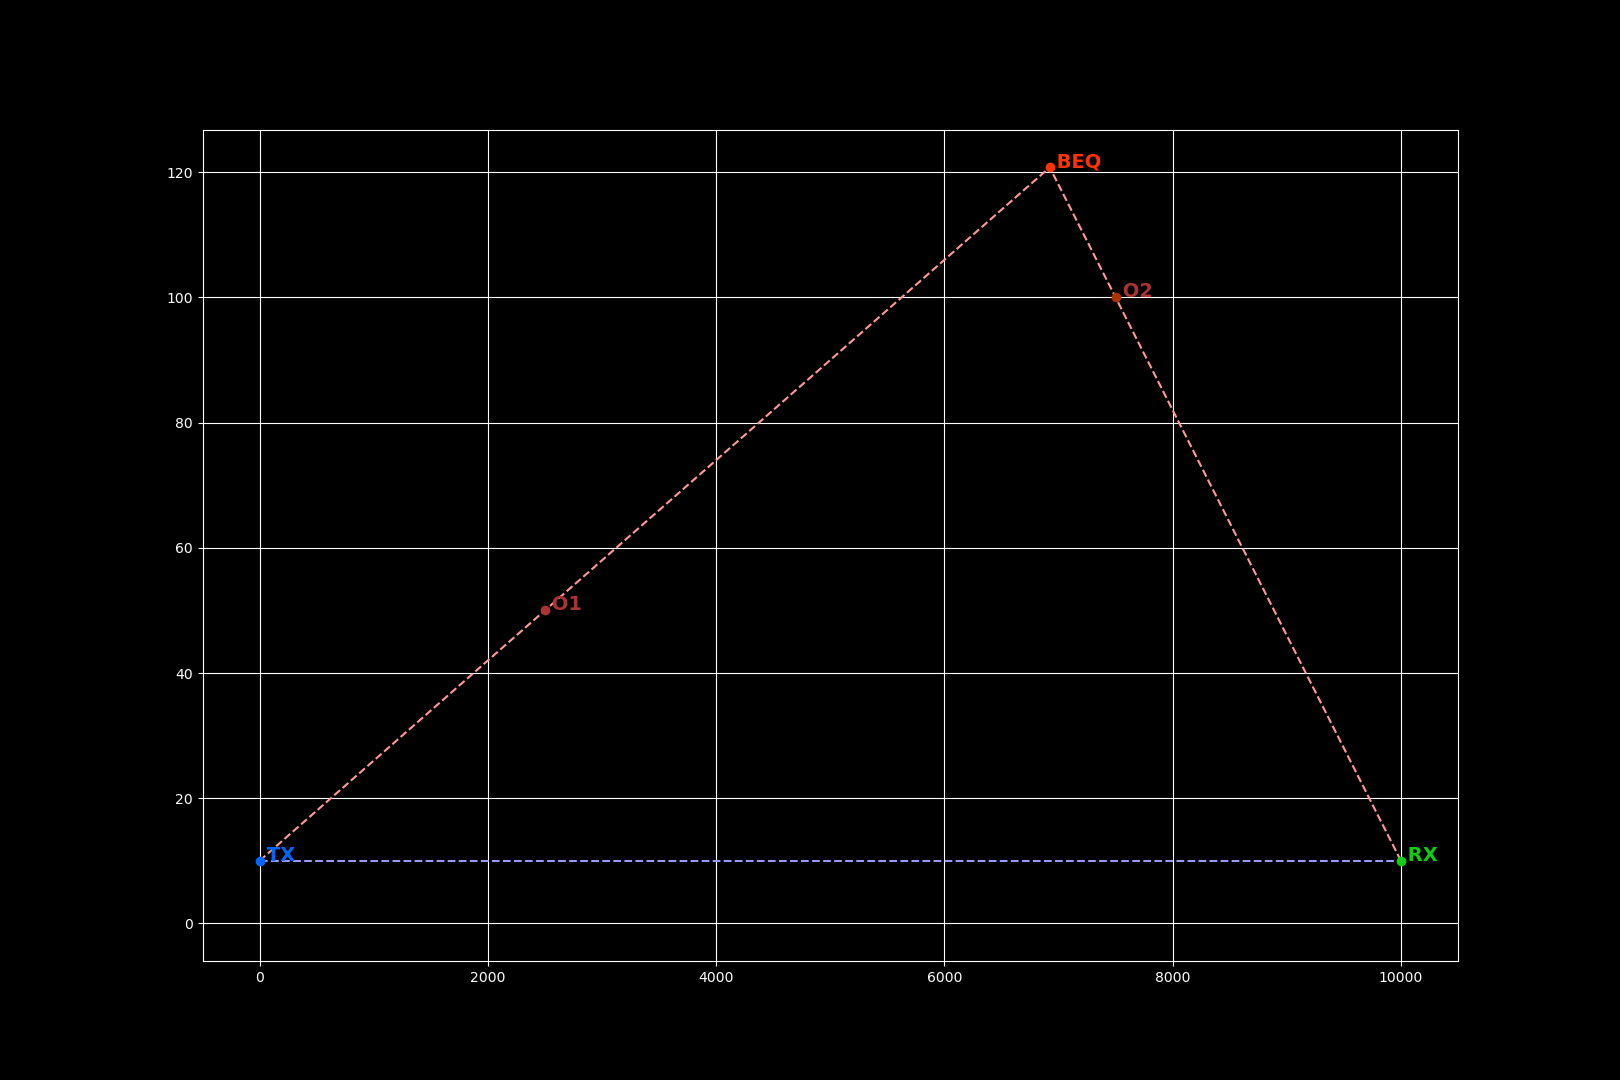
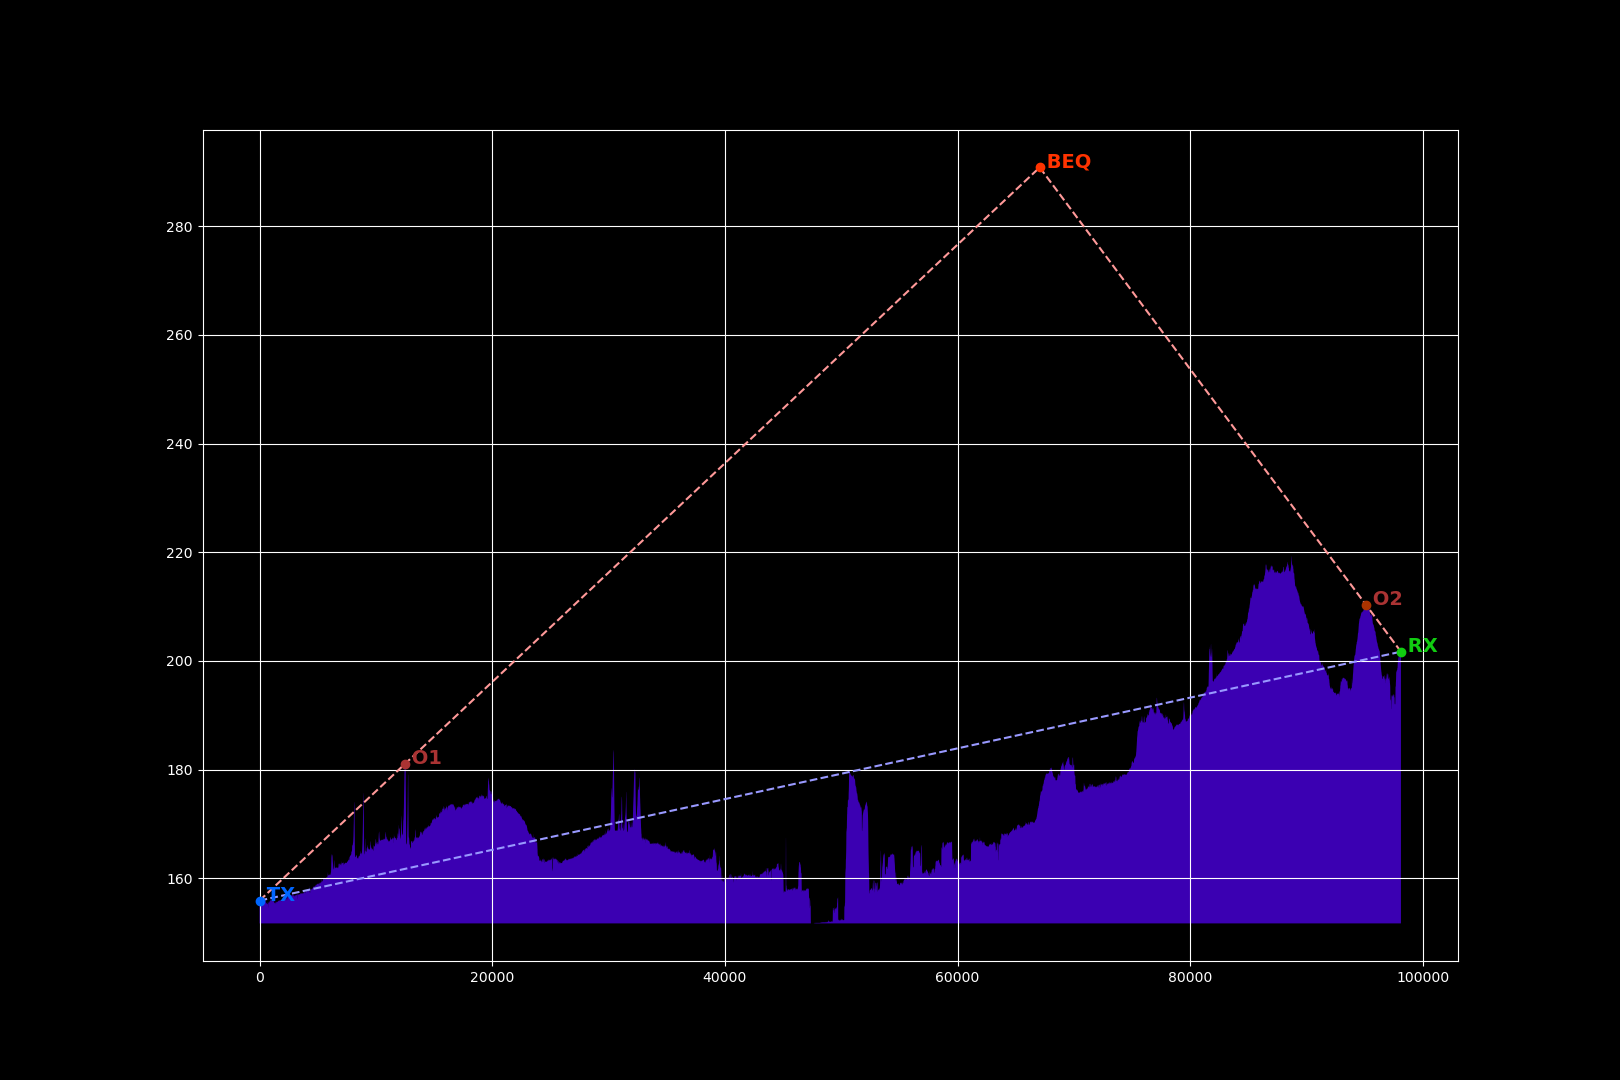
examples with settable frequencies

diff --git a/main.py b/main.py
@@ -235,33 +235,39 @@ filename = input('Witaj w programie! Poniżej dostępne opcje:\npodaj nazwę pli
 try:
     if filename == 'kasina':
         bul.load_terrain('profil_kasinawielka_kluszkowce.csv')
-        bul.place_object(5475, 0, type='TX')
-        bul.place_object(27841, 0, type='RX')
-        bul.place_object(15180, 0, type='O1')
-        bul.place_object(19336, 0, type='O2')
-        bul.set_frequency(230)
+        frequency = int(input('Podaj częstotliwość w MHz:\n'))
+        bul.set_frequency(frequency)
+        bul.place_object(0, 0, type='TX')
+        bul.place_object(33300, 0, type='RX')
+        bul.place_object(2100, 0, type='O1')
+        bul.place_object(27850, 0, type='O2')
+
         bul.calc_all()
         bul.print_all_data()
         bul.make_plot_image()
         exit()
     elif filename == 'nowadęba':
         bul.load_terrain('profil_nowadeba_bilgoraj.csv')
-        bul.place_object(0, 10, type='TX')
-        bul.place_object(95000, 10, type='RX')
+        frequency = int(input('Podaj częstotliwość w MHz:\n'))
+        bul.set_frequency(frequency)
+        bul.place_object(0, 0, type='TX')
+        bul.place_object(98098, 0, type='RX')
         bul.place_object(12477, 0, type='O1')
-        bul.place_object(88750, 0, type='O2')
-        bul.set_frequency(230)
+        bul.place_object(95100, 0, type='O2')
+        
         bul.calc_all()
         bul.print_all_data()
         bul.make_plot_image()
         exit()
     elif filename == 'rabka':
         bul.load_terrain('profil_rabkazdroj_nowysacz.csv')
+        frequency = int(input('Podaj częstotliwość w MHz:\n'))
+        bul.set_frequency(frequency)
         bul.place_object(11600, 0, type='TX')
         bul.place_object(42468, 0, type='RX')
         bul.place_object(22776, 0, type='O1')
         bul.place_object(34099, 0, type='O2')
-        bul.set_frequency(230)
+        
         bul.calc_all()
         bul.print_all_data()
         bul.make_plot_image()

diff --git a/README.md b/README.md
@@ -1,3 +1,2 @@
 # bullington-calculation
-[![Run on Repl.it](https://repl.it/badge/github/Tomaszu97/bullington-calculation)](https://repl.it/github/Tomaszu97/bullington-calculation)  
 A university project - program for calculating knife-edge loss for many edges using Bullington method
